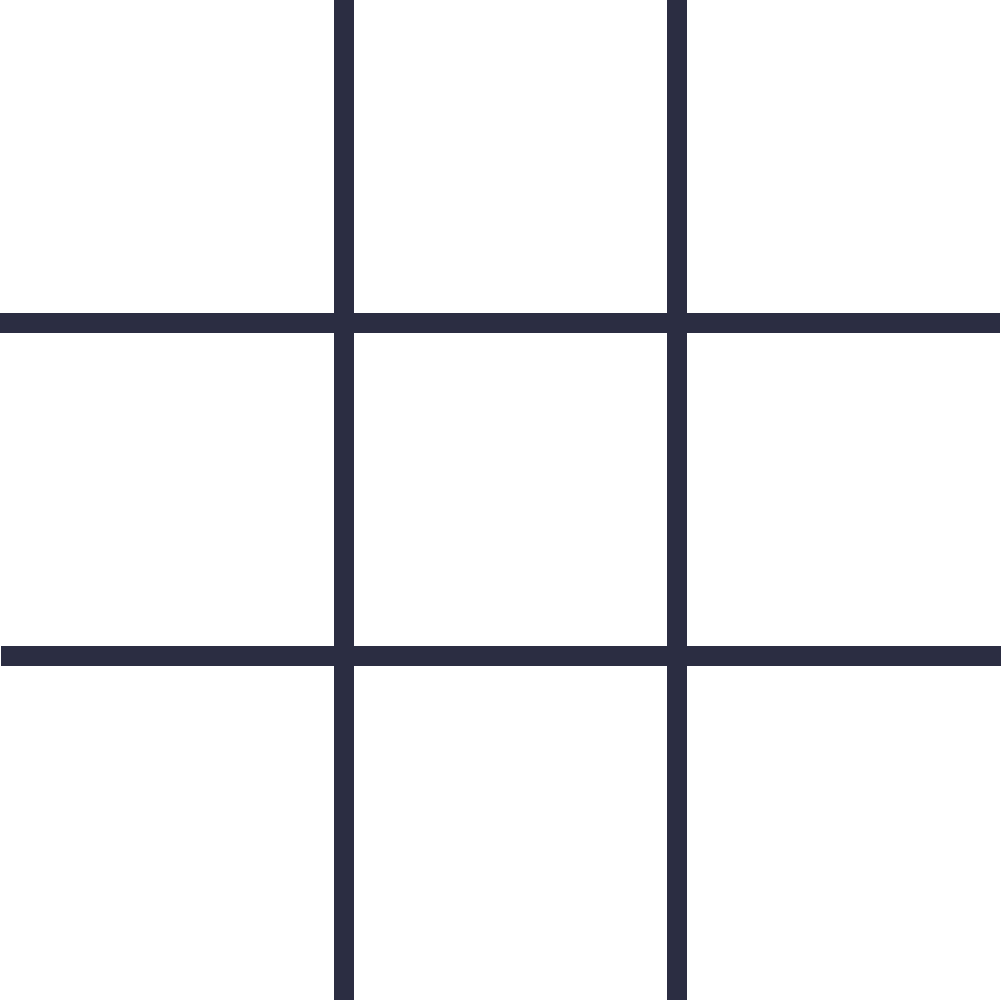
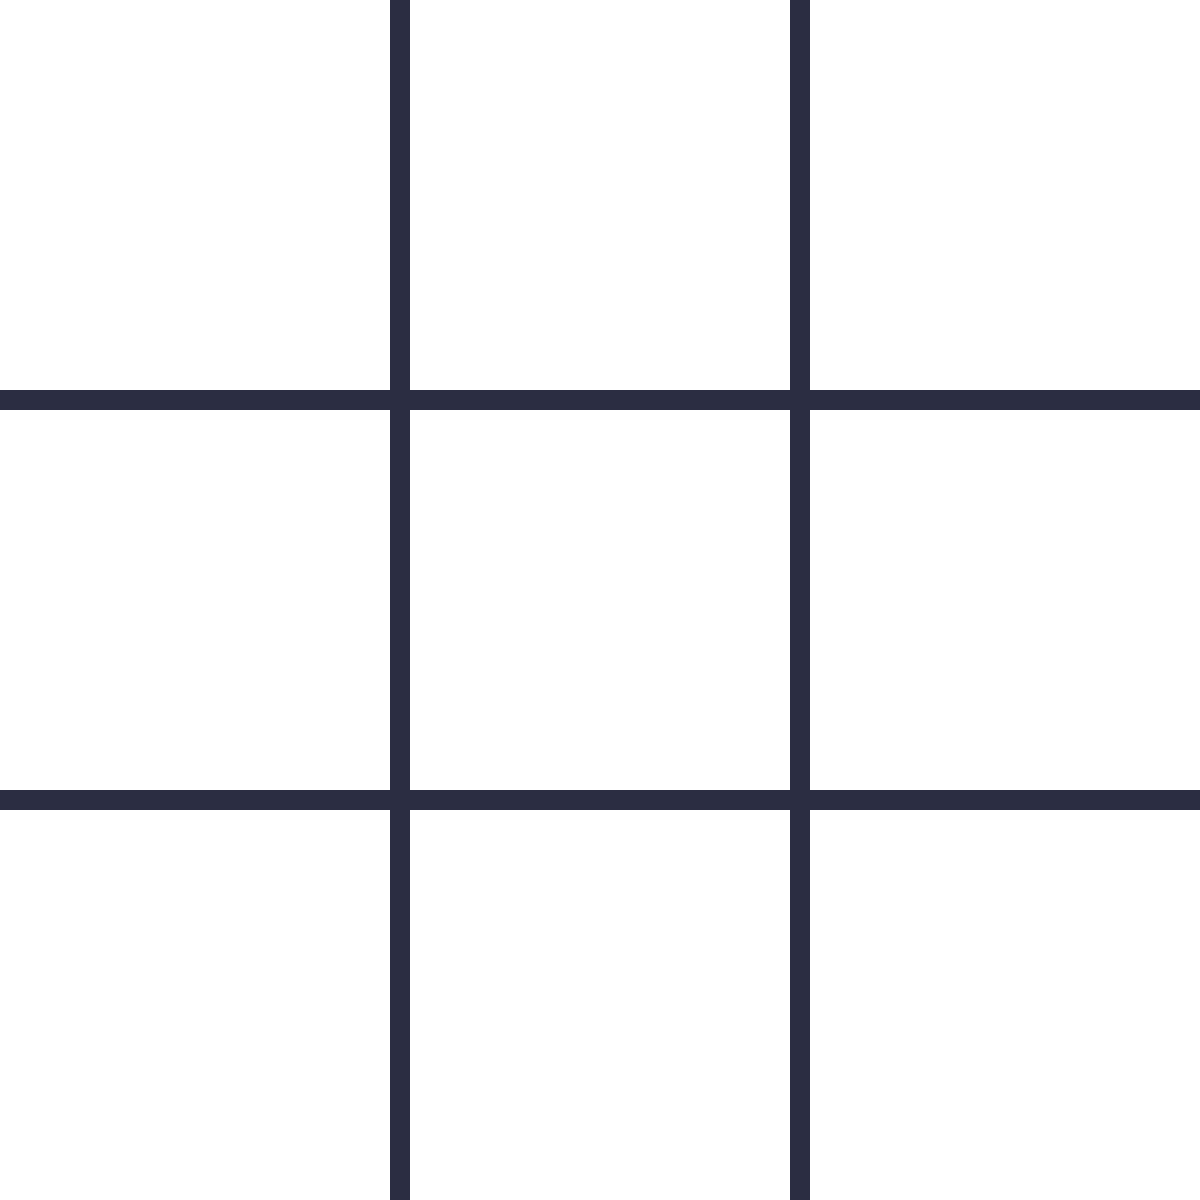
Avancement de la Gampage

Changed region(s): [[0.0, 0.0, 1.0, 1.0]]

diff --git a/Code/TicTacToe_Server/TicTacToe_Server/Views/GamePage.xaml b/Code/TicTacToe_Server/TicTacToe_Server/Views/GamePage.xaml
@@ -48,7 +48,7 @@
 
                     <Border BorderThickness="0 0 1 0" BorderBrush="Black" Margin="0 0 0 10"></Border>
 
-                        <Grid Background="Blue">
+                        <!--<Grid Background="Blue">
                             <Grid.ColumnDefinitions>
                                 <ColumnDefinition/>
                                 <ColumnDefinition/>
@@ -59,15 +59,67 @@
                                 <RowDefinition/>
                                 <RowDefinition/>
                             </Grid.RowDefinitions>
+                        </Grid>-->
+
+                    <Grid>
+                        <Grid.ColumnDefinitions>
+                            <ColumnDefinition/>
+                            <ColumnDefinition Width="Auto"/>
+                            <ColumnDefinition/>
+                        </Grid.ColumnDefinitions>
+                        <Grid.RowDefinitions>
+                            <RowDefinition/>
+                            <RowDefinition Height="15*"/>
+                            <RowDefinition/>
+                        </Grid.RowDefinitions>
+
+                        <Grid Grid.Row="1" Grid.Column="1">
+                            <Grid.ColumnDefinitions>
+                                <ColumnDefinition/>
+                                <ColumnDefinition/>
+                                <ColumnDefinition/>
+                            </Grid.ColumnDefinitions>
+                            <Grid.RowDefinitions>
+                                <RowDefinition/>
+                                <RowDefinition/>
+                                <RowDefinition/>
+                            </Grid.RowDefinitions>
+
+                            <Grid Grid.Row="0" Grid.Column="0" Background="Blue"></Grid>
+                            <Grid Grid.Row="0" Grid.Column="1" Background="HotPink"></Grid>
+                            <Grid Grid.Row="0" Grid.Column="2" Background="Red"></Grid>
+                            <Grid Grid.Row="1" Grid.Column="0" Background="Orange"></Grid>
+                            <Grid Grid.Row="1" Grid.Column="1" Background="Green"></Grid>
+                            <Grid Grid.Row="1" Grid.Column="2" Background="Yellow"></Grid>
+                            <Grid Grid.Row="2" Grid.Column="0" Background="Purple"></Grid>
+                            <Grid Grid.Row="2" Grid.Column="1" Background="SkyBlue"></Grid>
+                            <Grid Grid.Row="2" Grid.Column="2" Background="Lime"></Grid>
                         </Grid>
 
-                        <Grid Grid.Column="1">
+                        <Image Grid.Row="1" Grid.Column="1">
+                            <Image.Source>
+                                <BitmapImage UriSource="../Img/Grid.png"></BitmapImage>
+                            </Image.Source>
+                        </Image>
+                    </Grid>
+                        
+                    <Grid Grid.Column="1">
                         <Grid.RowDefinitions>
                             <RowDefinition Height="1*"/>
                             <RowDefinition Height="4*"/>
                             <RowDefinition Height="5*"/>
                             <RowDefinition Height="2*"/>
                         </Grid.RowDefinitions>
+
+                        <TextBlock Grid.Row="0" VerticalAlignment="Center" TextAlignment="Center" FontSize="25" TextWrapping="Wrap">Vous jouez les X bleu</TextBlock>
+
+                        <TextBlock Grid.Row="1" VerticalAlignment="Center" TextAlignment="Center" FontSize="40" TextWrapping="Wrap">C'est à votre tour</TextBlock>
+
+                        <TextBlock Grid.Row="2" VerticalAlignment="Center" TextAlignment="Center" FontSize="25" TextWrapping="Wrap">Sélectionner un emplacement libre puis appuyer sur confirmer pour jouer votre coup.</TextBlock>
+
+                        <Border Grid.Row="3" Margin="5">
+                            <Button>Confirmer</Button>
+                        </Border>
                     </Grid>
                 </Grid>
             </Grid>

diff --git a/Code/TicTacToe_Server/TicTacToe_Server/Views/WaitingPage.xaml b/Code/TicTacToe_Server/TicTacToe_Server/Views/WaitingPage.xaml
@@ -50,7 +50,7 @@
                 <TextBlock Grid.Row="3" VerticalAlignment="Center" TextAlignment="Center" FontSize="25" TextWrapping="Wrap">Patientez...</TextBlock>
 
                 <Border Grid.Row="4" Margin="5">
-                    <Button IsEnabled="False" FontSize="35" Background="Transparent" BorderBrush="Transparent">Lancer la partie</Button>
+                    <Button x:Name="Launch_Game" Click="Launch_Game_Click" IsEnabled="False" FontSize="35" Background="Transparent" BorderBrush="Transparent">Lancer la partie</Button>
                 </Border>
             </Grid>
         </Border>

diff --git a/Code/TicTacToe_Server/TicTacToe_Server/Views/WaitingPage.xaml.cs b/Code/TicTacToe_Server/TicTacToe_Server/Views/WaitingPage.xaml.cs
@@ -23,6 +23,13 @@ namespace TicTacToe_Server.Views
         public WaitingPage()
         {
             InitializeComponent();
+
+
+        }
+
+        private void Launch_Game_Click(object sender, RoutedEventArgs e)
+        {
+
         }
     }
 }
